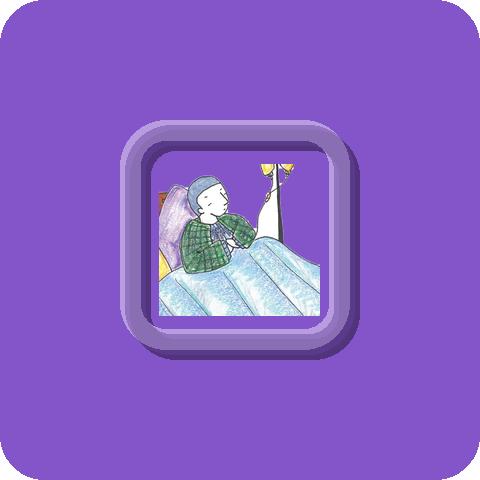
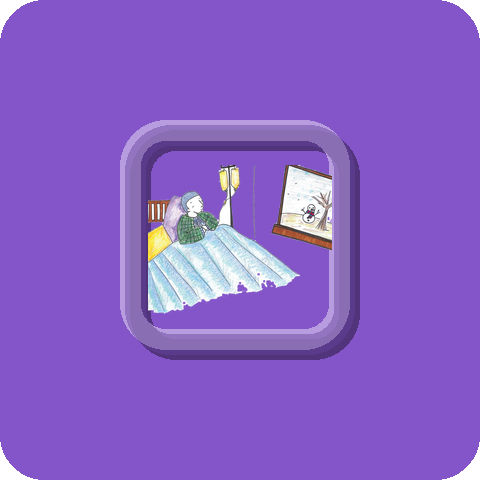
겨울 카드에 창밖 눈사람까지 포함 — 계절이 읽히게
인물만 좁게 잘라 창밖 눈사람이 빠져 있었다. 인물·링거·눈사람을 모두
남기도록 크롭을 넓혔다. 다만 원본 그대로 쓰면 내용 비율이 1.38로 넓어
정사각 액자에서 letterbox가 생겨 그림이 작아 보인다(가을 그림은 1.02).
오른쪽 빈 여백만 덜어내 1.19로 맞췄다.

검증: 375px·1280px 모두 4장 로드, 이름/문구가 액자 구간(26~74%)을
침범하지 않음, 가로 스크롤·콘솔 에러 없음.

Changed region(s): [[0.2812, 0.3438, 0.7188, 0.6562]]

diff --git a/letter-2026-summer.html b/letter-2026-summer.html
@@ -7,7 +7,7 @@
   <meta name="description" content="여름은 다들 떠나는 계절입니다. 그 여름에 병실에 있는 사람에게 보내는 편지. 페루 마추픽추, 산정특례 30일 규칙과 연말정산 장애인 공제, 그리고 2025년에 한 일." />
   <link rel="alternate" hreflang="ko" href="https://nrhoon777.github.io/ddobom-website/letter-2026-summer.html" />
   <link rel="icon" type="image/png" href="assets/img/logo-square.png" />
-  <link rel="stylesheet" href="assets/css/style.css?v=20260811f" />
+  <link rel="stylesheet" href="assets/css/style.css?v=20260811g" />
 </head>
 <body>
   <a href="#main" class="skip-link">본문 바로가기</a>
@@ -339,6 +339,6 @@
     </div>
   </footer>
 
-  <script src="assets/js/main.js?v=20260811f"></script>
+  <script src="assets/js/main.js?v=20260811g"></script>
 </body>
 </html>

diff --git a/letters.html b/letters.html
@@ -7,7 +7,7 @@
   <meta name="description" content="계절마다 한 번, 네 번에 걸쳐 한 해를 도는 또봄의 편지. 여름·가을·겨울·봄, 또봄 로고의 네 네모와 같은 순서입니다." />
   <link rel="alternate" hreflang="ko" href="https://nrhoon777.github.io/ddobom-website/letters.html" />
   <link rel="icon" type="image/png" href="assets/img/logo-square.png" />
-  <link rel="stylesheet" href="assets/css/style.css?v=20260811f" />
+  <link rel="stylesheet" href="assets/css/style.css?v=20260811g" />
 </head>
 <body>
   <a href="#main" class="skip-link">본문 바로가기</a>
@@ -164,6 +164,6 @@
     </div>
   </footer>
 
-  <script src="assets/js/main.js?v=20260811f"></script>
+  <script src="assets/js/main.js?v=20260811g"></script>
 </body>
 </html>

diff --git a/travel-peru.html b/travel-peru.html
@@ -7,7 +7,7 @@
   <meta name="description" content="이카, 나스카, 마추픽추, 쿠스코, 우유니, 69호수. 회복기의 몸을 기준으로 고도순으로 정리한 페루 여행 안내입니다." />
   <link rel="alternate" hreflang="ko" href="https://nrhoon777.github.io/ddobom-website/travel-peru.html" />
   <link rel="icon" type="image/png" href="assets/img/logo-square.png" />
-  <link rel="stylesheet" href="assets/css/style.css?v=20260811f" />
+  <link rel="stylesheet" href="assets/css/style.css?v=20260811g" />
 </head>
 <body>
   <a href="#main" class="skip-link">본문 바로가기</a>
@@ -216,6 +216,6 @@
     </div>
   </footer>
 
-  <script src="assets/js/main.js?v=20260811f"></script>
+  <script src="assets/js/main.js?v=20260811g"></script>
 </body>
 </html>

diff --git a/story-bucketbook.html b/story-bucketbook.html
@@ -7,7 +7,7 @@
   <meta name="description" content="말기암을 이겨낸 뒤 떠난 80일간의 여행. 그 사진으로 만든 포토북을 병원에 전한 2018년 프로젝트 기록입니다." />
   <link rel="alternate" hreflang="ko" href="https://nrhoon777.github.io/ddobom-website/story-bucketbook.html" />
   <link rel="icon" type="image/png" href="assets/img/logo-square.png" />
-  <link rel="stylesheet" href="assets/css/style.css?v=20260811f" />
+  <link rel="stylesheet" href="assets/css/style.css?v=20260811g" />
 </head>
 <body>
   <a href="#main" class="skip-link">본문 바로가기</a>
@@ -238,6 +238,6 @@
     </div>
   </footer>
 
-  <script src="assets/js/main.js?v=20260811f"></script>
+  <script src="assets/js/main.js?v=20260811g"></script>
 </body>
 </html>

diff --git a/index.html b/index.html
@@ -12,7 +12,7 @@
   <link rel="alternate" hreflang="en" href="https://nrhoon777.github.io/ddobom-website/en/index.html" />
   <link rel="alternate" hreflang="x-default" href="https://nrhoon777.github.io/ddobom-website/index.html" />
   <link rel="icon" type="image/png" href="assets/img/logo-square.png" />
-  <link rel="stylesheet" href="assets/css/style.css?v=20260811f" />
+  <link rel="stylesheet" href="assets/css/style.css?v=20260811g" />
 </head>
 <body>
   <a href="#main" class="skip-link">본문 바로가기</a>
@@ -448,7 +448,7 @@
     </div>
   </footer>
 
-  <script src="assets/js/main.js?v=20260811f"></script>
+  <script src="assets/js/main.js?v=20260811g"></script>
   <script type="module" src="assets/js/news-loader.js?v=20260807f"></script>
 </body>
 </html>

diff --git a/story-cheerup.html b/story-cheerup.html
@@ -7,7 +7,7 @@
   <meta name="description" content="암 경험자와 시민이 한자리에서 이야기하고 노래하는 토크·싱 콘서트. 2023년부터 네 번 열린 기록입니다." />
   <link rel="alternate" hreflang="ko" href="https://nrhoon777.github.io/ddobom-website/story-cheerup.html" />
   <link rel="icon" type="image/png" href="assets/img/logo-square.png" />
-  <link rel="stylesheet" href="assets/css/style.css?v=20260811f" />
+  <link rel="stylesheet" href="assets/css/style.css?v=20260811g" />
 </head>
 <body>
   <a href="#main" class="skip-link">본문 바로가기</a>
@@ -167,6 +167,6 @@
     </div>
   </footer>
 
-  <script src="assets/js/main.js?v=20260811f"></script>
+  <script src="assets/js/main.js?v=20260811g"></script>
 </body>
 </html>

diff --git a/story-gift-2020.html b/story-gift-2020.html
@@ -7,7 +7,7 @@
   <meta name="description" content="코로나로 만남이 어려웠던 2020년 겨울, 투병 중인 청년에게 여행 포토북을 보낸 캠페인 기록입니다." />
   <link rel="alternate" hreflang="ko" href="https://nrhoon777.github.io/ddobom-website/story-gift-2020.html" />
   <link rel="icon" type="image/png" href="assets/img/logo-square.png" />
-  <link rel="stylesheet" href="assets/css/style.css?v=20260811f" />
+  <link rel="stylesheet" href="assets/css/style.css?v=20260811g" />
 </head>
 <body>
   <a href="#main" class="skip-link">본문 바로가기</a>
@@ -133,6 +133,6 @@
     </div>
   </footer>
 
-  <script src="assets/js/main.js?v=20260811f"></script>
+  <script src="assets/js/main.js?v=20260811g"></script>
 </body>
 </html>

diff --git a/en/story-bucketbook.html b/en/story-bucketbook.html
@@ -8,7 +8,7 @@
   <link rel="alternate" hreflang="ko" href="https://nrhoon777.github.io/ddobom-website/story-bucketbook.html" />
   <link rel="alternate" hreflang="en" href="https://nrhoon777.github.io/ddobom-website/en/story-bucketbook.html" />
   <link rel="icon" type="image/png" href="../assets/img/logo-square.png" />
-  <link rel="stylesheet" href="../assets/css/style.css?v=20260811f" />
+  <link rel="stylesheet" href="../assets/css/style.css?v=20260811g" />
 </head>
 <body>
   <a href="#main" class="skip-link">Skip to content</a>
@@ -273,6 +273,6 @@
     </div>
   </footer>
 
-  <script src="../assets/js/main.js?v=20260811f"></script>
+  <script src="../assets/js/main.js?v=20260811g"></script>
 </body>
 </html>

diff --git a/en/story-gift-2020.html b/en/story-gift-2020.html
@@ -8,7 +8,7 @@
   <link rel="alternate" hreflang="ko" href="https://nrhoon777.github.io/ddobom-website/story-gift-2020.html" />
   <link rel="alternate" hreflang="en" href="https://nrhoon777.github.io/ddobom-website/en/story-gift-2020.html" />
   <link rel="icon" type="image/png" href="../assets/img/logo-square.png" />
-  <link rel="stylesheet" href="../assets/css/style.css?v=20260811f" />
+  <link rel="stylesheet" href="../assets/css/style.css?v=20260811g" />
 </head>
 <body>
   <a href="#main" class="skip-link">Skip to content</a>
@@ -174,6 +174,6 @@
     </div>
   </footer>
 
-  <script src="../assets/js/main.js?v=20260811f"></script>
+  <script src="../assets/js/main.js?v=20260811g"></script>
 </body>
 </html>

diff --git a/en/story-cheerup.html b/en/story-cheerup.html
@@ -8,7 +8,7 @@
   <link rel="alternate" hreflang="ko" href="https://nrhoon777.github.io/ddobom-website/story-cheerup.html" />
   <link rel="alternate" hreflang="en" href="https://nrhoon777.github.io/ddobom-website/en/story-cheerup.html" />
   <link rel="icon" type="image/png" href="../assets/img/logo-square.png" />
-  <link rel="stylesheet" href="../assets/css/style.css?v=20260811f" />
+  <link rel="stylesheet" href="../assets/css/style.css?v=20260811g" />
 </head>
 <body>
   <a href="#main" class="skip-link">Skip to content</a>
@@ -205,6 +205,6 @@
     </div>
   </footer>
 
-  <script src="../assets/js/main.js?v=20260811f"></script>
+  <script src="../assets/js/main.js?v=20260811g"></script>
 </body>
 </html>

diff --git a/en/programs.html b/en/programs.html
@@ -9,7 +9,7 @@
   <link rel="alternate" hreflang="en" href="https://nrhoon777.github.io/ddobom-website/en/programs.html" />
   <link rel="alternate" hreflang="x-default" href="https://nrhoon777.github.io/ddobom-website/programs.html" />
   <link rel="icon" type="image/png" href="../assets/img/logo-square.png" />
-  <link rel="stylesheet" href="../assets/css/style.css?v=20260811f" />
+  <link rel="stylesheet" href="../assets/css/style.css?v=20260811g" />
 </head>
 <body>
   <a href="#main" class="skip-link">Skip to content</a>
@@ -309,6 +309,6 @@
     </div>
   </footer>
 
-  <script src="../assets/js/main.js?v=20260811f"></script>
+  <script src="../assets/js/main.js?v=20260811g"></script>
 </body>
 </html>

diff --git a/en/donate.html b/en/donate.html
@@ -9,7 +9,7 @@
   <link rel="alternate" hreflang="en" href="https://nrhoon777.github.io/ddobom-website/en/donate.html" />
   <link rel="alternate" hreflang="x-default" href="https://nrhoon777.github.io/ddobom-website/donate.html" />
   <link rel="icon" type="image/png" href="../assets/img/logo-square.png" />
-  <link rel="stylesheet" href="../assets/css/style.css?v=20260811f" />
+  <link rel="stylesheet" href="../assets/css/style.css?v=20260811g" />
 </head>
 <body>
   <a href="#main" class="skip-link">Skip to content</a>
@@ -213,6 +213,6 @@
     </div>
   </footer>
 
-  <script src="../assets/js/main.js?v=20260811f"></script>
+  <script src="../assets/js/main.js?v=20260811g"></script>
 </body>
 </html>
